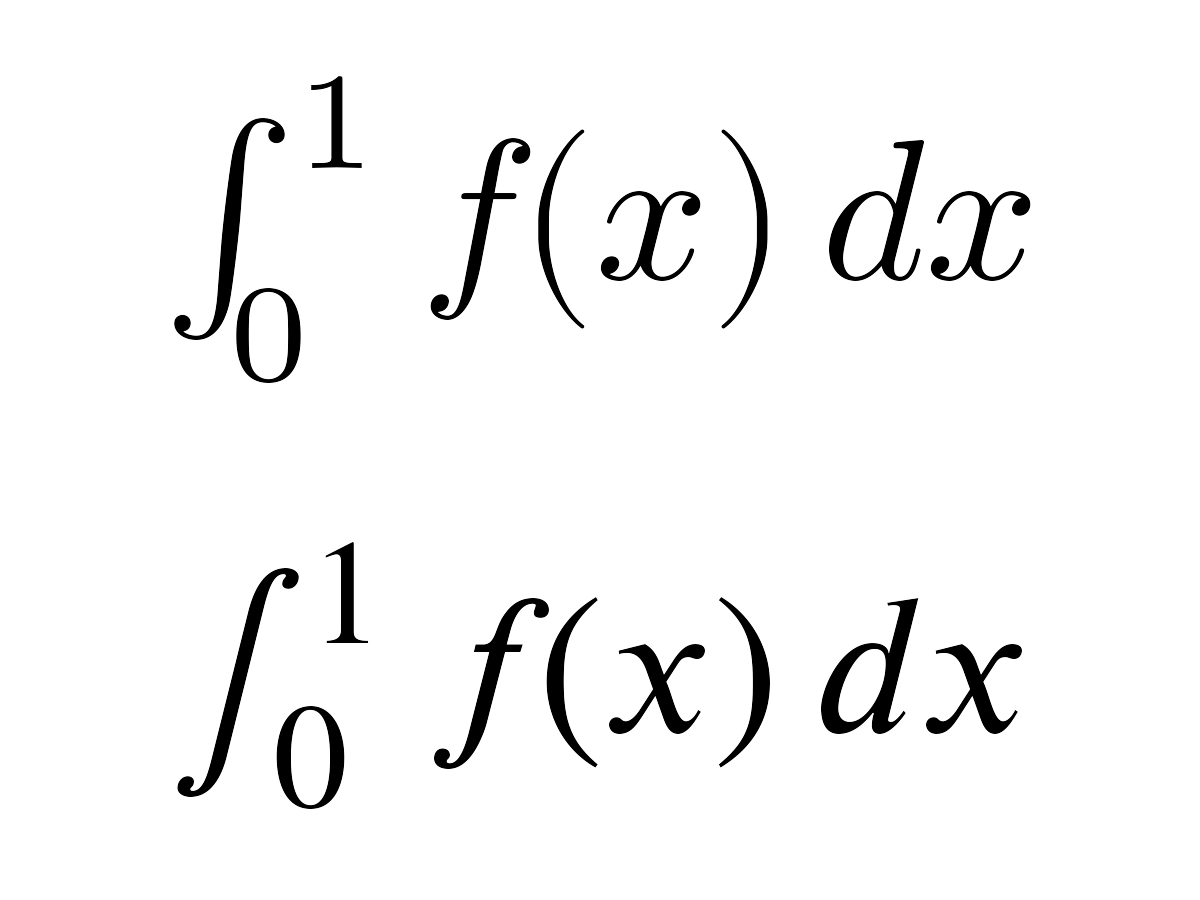
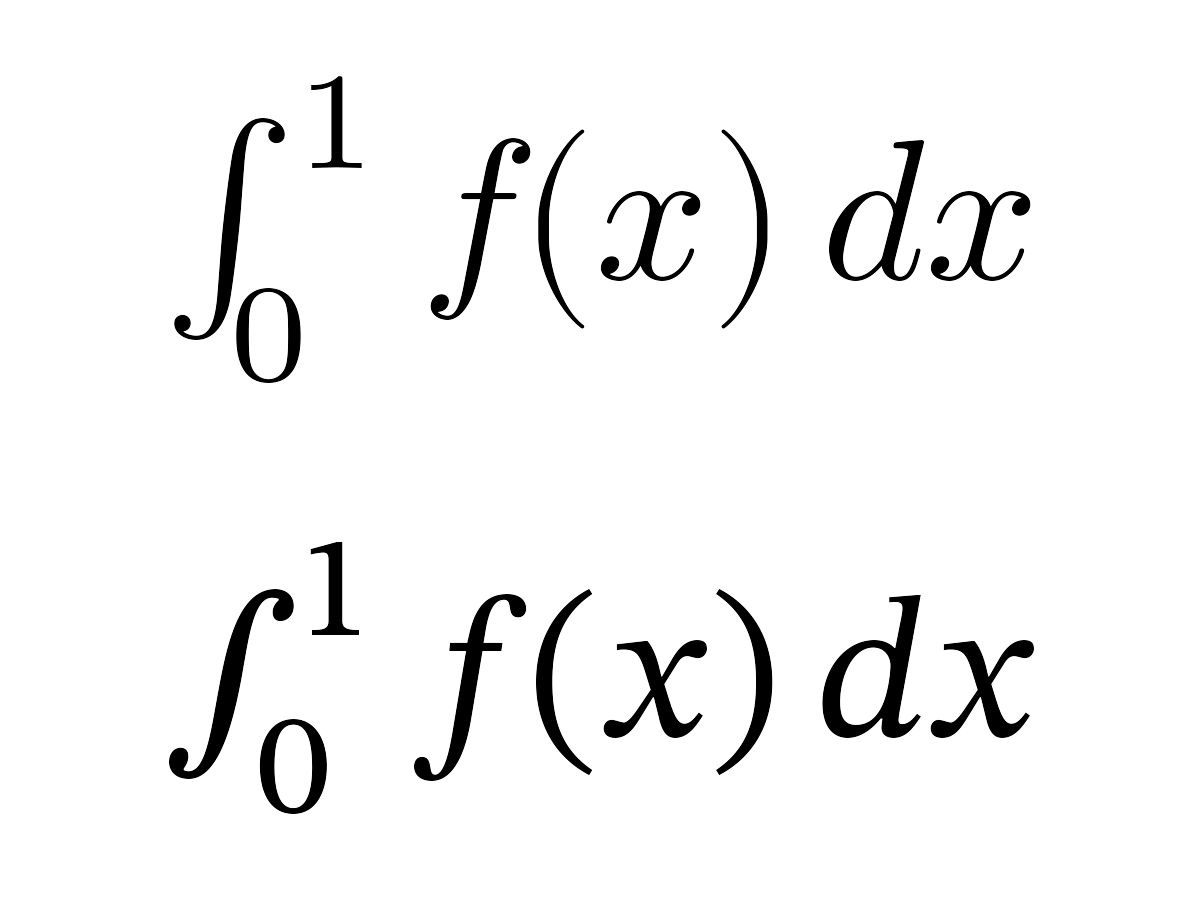
Deploying to gh-pages from @ adayim/gridmicrotex@da1313f140cc50e6bd0d665e5583a6d50dee9c65 🚀

diff --git a/articles/introduction.html b/articles/introduction.html
@@ -78,8 +78,8 @@ embedded</li>
 SVG, …)</li>
 <li>Full math support: fractions, roots, integrals, matrices, Greek
 letters, accents, delimiters, and more</li>
-<li>Multiple math fonts (Latin Modern Math, XITS Math, Garamond Math,
-TeX Gyre DejaVu Math)</li>
+<li>Multiple math fonts (Latin Modern Math, STIX Two Math, Lete Sans
+Math, TeX Gyre DejaVu Math)</li>
 <li>Color support via <code>\textcolor{}</code>
 </li>
 <li>ggplot2 integration with <code><a href="../reference/geom_latex.html">geom_latex()</a></code> and
@@ -131,8 +131,9 @@ grob:</p>
 <div class="section level2">
 <h2 id="math-fonts">Math fonts<a class="anchor" aria-label="anchor" href="#math-fonts"></a>
 </h2>
-<p>The package bundles Latin Modern Math (default), XITS Math, and TeX
-Gyre DejaVu Math. For most users, the easiest workflow is:</p>
+<p>The package bundles Latin Modern Math (default), STIX Two Math, Lete
+Sans Math, and TeX Gyre DejaVu Math. For most users, the easiest
+workflow is:</p>
 <ol style="list-style-type: decimal">
 <li>List available math fonts with
 <code><a href="../reference/available_math_fonts.html">available_math_fonts()</a></code>
@@ -143,10 +144,10 @@ Gyre DejaVu Math. For most users, the easiest workflow is:</p>
 </ol>
 <div class="sourceCode" id="cb5"><pre class="downlit sourceCode r">
 <code class="sourceCode R"><span><span class="fu"><a href="../reference/available_math_fonts.html">available_math_fonts</a></span><span class="op">(</span><span class="op">)</span></span>
-<span><span class="co">#&gt; [1] "Garamond-Math"             "LatinModernMath-Regular"  </span></span>
-<span><span class="co">#&gt; [3] "TeXGyreDejaVuMath-Regular" "XITS Math"</span></span></code></pre></div>
+<span><span class="co">#&gt; [1] "LatinModernMath-Regular"   "Lete Sans Math"           </span></span>
+<span><span class="co">#&gt; [3] "STIX Two Math"             "TeXGyreDejaVuMath-Regular"</span></span></code></pre></div>
 <div class="sourceCode" id="cb6"><pre class="downlit sourceCode r">
-<code class="sourceCode R"><span><span class="fu"><a href="../reference/set_math_font.html">set_math_font</a></span><span class="op">(</span><span class="st">"xits"</span><span class="op">)</span></span>
+<code class="sourceCode R"><span><span class="fu"><a href="../reference/set_math_font.html">set_math_font</a></span><span class="op">(</span><span class="st">"stix"</span><span class="op">)</span></span>
 <span><span class="fu">grid</span><span class="fu">::</span><span class="fu"><a href="https://rdrr.io/r/grid/grid.newpage.html" class="external-link">grid.newpage</a></span><span class="op">(</span><span class="op">)</span></span>
 <span><span class="fu"><a href="../reference/latex_grob.html">grid.latex</a></span><span class="op">(</span><span class="st">"\\int_0^1 f(x)\\,dx"</span>, fontsize <span class="op">=</span> <span class="fl">24</span><span class="op">)</span></span></code></pre></div>
 <p><img src="introduction_files/figure-html/fonts-default-1.png" class="r-plt" alt="" width="50%"></p>
@@ -163,7 +164,7 @@ Gyre DejaVu Math. For most users, the easiest workflow is:</p>
 <span><span class="fu"><a href="../reference/latex_grob.html">grid.latex</a></span><span class="op">(</span><span class="st">"\\int_0^1 f(x)\\,dx"</span>, fontsize <span class="op">=</span> <span class="fl">24</span><span class="op">)</span></span>
 <span><span class="fu">grid</span><span class="fu">::</span><span class="fu"><a href="https://rdrr.io/r/grid/viewports.html" class="external-link">upViewport</a></span><span class="op">(</span><span class="op">)</span></span>
 <span><span class="fu">grid</span><span class="fu">::</span><span class="fu"><a href="https://rdrr.io/r/grid/viewports.html" class="external-link">pushViewport</a></span><span class="op">(</span><span class="fu">grid</span><span class="fu">::</span><span class="fu"><a href="https://rdrr.io/r/grid/viewport.html" class="external-link">viewport</a></span><span class="op">(</span>layout.pos.row <span class="op">=</span> <span class="fl">2</span><span class="op">)</span><span class="op">)</span></span>
-<span><span class="fu"><a href="../reference/latex_grob.html">grid.latex</a></span><span class="op">(</span><span class="st">"\\int_0^1 f(x)\\,dx"</span>, fontsize <span class="op">=</span> <span class="fl">24</span>, math_font <span class="op">=</span> <span class="st">"xits"</span><span class="op">)</span></span>
+<span><span class="fu"><a href="../reference/latex_grob.html">grid.latex</a></span><span class="op">(</span><span class="st">"\\int_0^1 f(x)\\,dx"</span>, fontsize <span class="op">=</span> <span class="fl">24</span>, math_font <span class="op">=</span> <span class="st">"stix"</span><span class="op">)</span></span>
 <span><span class="fu">grid</span><span class="fu">::</span><span class="fu"><a href="https://rdrr.io/r/grid/viewports.html" class="external-link">upViewport</a></span><span class="op">(</span><span class="fl">2</span><span class="op">)</span></span></code></pre></div>
 <p><img src="introduction_files/figure-html/fonts-1.png" class="r-plt" alt="" width="50%"></p>
 <p>Use <code><a href="../reference/available_math_fonts.html">available_math_fonts()</a></code> to list loaded fonts and
@@ -274,14 +275,14 @@ pair them with a matching <code>fontfamily</code>:</p>
 <td><code>"serif"</code></td>
 </tr>
 <tr class="even">
-<td>XITS Math (<code>"xits"</code>)</td>
+<td>STIX Two Math (<code>"stix"</code>)</td>
 <td>Serif</td>
 <td><code>"serif"</code></td>
 </tr>
 <tr class="odd">
-<td>Garamond Math (<code>"garamond"</code>)</td>
-<td>Serif</td>
-<td><code>"serif"</code></td>
+<td>Lete Sans Math (<code>"lete"</code>)</td>
+<td>Sans-serif</td>
+<td><code>"sans"</code></td>
 </tr>
 <tr class="even">
 <td>TeX Gyre DejaVu Math (<code>"dejavu"</code>)</td>

diff --git a/reference/load_font.html b/reference/load_font.html
@@ -57,8 +57,10 @@ can then be used as a math font via the <code>math_font</code> parameter of
 
 
 <dt id="arg-clm-path">clm_path<a class="anchor" aria-label="anchor" href="#arg-clm-path"></a></dt>
-<dd><p>Optional legacy metrics path. Usually leave as
-<code>NULL</code>.</p></dd>
+<dd><p>Optional path to the companion <code>.clm2</code> (or
+legacy <code>.clm1</code>) metrics file. If <code>NULL</code> (the default),
+<code>load_font()</code> searches for a file with the same stem as
+<code>otf_path</code>.</p></dd>
 
 </dl></div>
     <div class="section level2">
@@ -67,8 +69,10 @@ can then be used as a math font via the <code>math_font</code> parameter of
     </div>
     <div class="section level2">
     <h2 id="details">Details<a class="anchor" aria-label="anchor" href="#details"></a></h2>
-    <p>For standard usage, supply only <code>otf_path</code>. The package handles
-the remaining font loading details internally.</p>
+    <p>For standard usage, supply only <code>otf_path</code>. If a matching
+<code>.clm2</code> file is present next to the OTF, it is used automatically.
+Otherwise you must generate one first (see <em>Generating a CLM
+metrics file</em> below).</p>
     </div>
     <div class="section level2">
     <h2 id="text-fonts">Text fonts<a class="anchor" aria-label="anchor" href="#text-fonts"></a></h2>
@@ -81,6 +85,33 @@ no font loading required. This function is only needed for adding
 custom <strong>math</strong> fonts.</p>
     </div>
     <div class="section level2">
+    <h2 id="generating-a-clm-metrics-file">Generating a CLM metrics file<a class="anchor" aria-label="anchor" href="#generating-a-clm-metrics-file"></a></h2>
+
+
+<p>MicroTeX reads glyph metrics, the OpenType MATH table, and glyph
+outlines from a binary companion file (<code>.clm2</code>) rather than from
+the OTF directly. A converter script is bundled with the package at
+<code>system.file("otf2clm.py", package = "gridmicrotex")</code>. It requires
+FontForge's embedded Python (<code>ffpython</code>), since the standard
+Python does not ship the <code>fontforge</code> module.</p>
+<p>Typical usage from a shell, for a single font:</p><div class="sourceCode"><pre><code>
+ffpython otf2clm.py --single path/to/font.otf true out_dir
+</code></pre></div>
+
+<p>Or to convert every OTF in a directory:</p><div class="sourceCode"><pre><code>
+ffpython otf2clm.py --batch in_dir true out_dir
+</code></pre></div>
+
+<p>The <code>true</code> argument tells the converter to embed glyph outlines
+(required for <code>render_mode = "path"</code>); pass <code>false</code> to
+generate a smaller <code>.clm1</code> file suitable only for
+<code>render_mode = "typeface"</code>. Run the script with no arguments to
+see the full usage including font-style flags.</p>
+<p>Place the generated <code>.clm2</code> file next to the OTF (same stem) so
+that <code>load_font()</code> finds it automatically, or pass it explicitly
+via <code>clm_path</code>.</p>
+    </div>
+    <div class="section level2">
     <h2 id="see-also">See also<a class="anchor" aria-label="anchor" href="#see-also"></a></h2>
     <div class="dont-index"><p><code><a href="available_math_fonts.html">available_math_fonts</a></code>, <code><a href="set_math_font.html">set_math_font</a></code>,
 <code><a href="latex_grob.html">latex_grob</a></code></p></div>
@@ -89,8 +120,11 @@ custom <strong>math</strong> fonts.</p>
     <div class="section level2">
     <h2 id="ref-examples">Examples<a class="anchor" aria-label="anchor" href="#ref-examples"></a></h2>
     <div class="sourceCode"><pre class="sourceCode r"><code><span class="r-in"><span><span class="co"># \donttest{</span></span></span>
-<span class="r-in"><span>  <span class="co"># Load a custom math font from OTF:</span></span></span>
+<span class="r-in"><span>  <span class="co"># Load a custom math font from OTF (with a sibling .clm2 file):</span></span></span>
 <span class="r-in"><span>  <span class="co"># load_font("path/to/font.otf")</span></span></span>
+<span class="r-in"><span></span></span>
+<span class="r-in"><span>  <span class="co"># Locate the bundled CLM converter:</span></span></span>
+<span class="r-in"><span>  <span class="co"># system.file("otf2clm.py", package = "gridmicrotex")</span></span></span>
 <span class="r-in"><span><span class="co"># }</span></span></span>
 </code></pre></div>
     </div>

diff --git a/reference/resolve_math_font.html b/reference/resolve_math_font.html
@@ -1,6 +1,6 @@
 <!DOCTYPE html>
-<!-- Generated by pkgdown: do not edit by hand --><html lang="en"><head><meta http-equiv="Content-Type" content="text/html; charset=UTF-8"><meta charset="utf-8"><meta http-equiv="X-UA-Compatible" content="IE=edge"><meta name="viewport" content="width=device-width, initial-scale=1, shrink-to-fit=no"><title>Resolve a math font name — resolve_math_font • gridmicrotex</title><script src="../deps/jquery-3.6.0/jquery-3.6.0.min.js"></script><meta name="viewport" content="width=device-width, initial-scale=1, shrink-to-fit=no"><link href="../deps/bootstrap-5.3.1/bootstrap.min.css" rel="stylesheet"><script src="../deps/bootstrap-5.3.1/bootstrap.bundle.min.js"></script><link href="../deps/font-awesome-6.5.2/css/all.min.css" rel="stylesheet"><link href="../deps/font-awesome-6.5.2/css/v4-shims.min.css" rel="stylesheet"><script src="../deps/headroom-0.11.0/headroom.min.js"></script><script src="../deps/headroom-0.11.0/jQuery.headroom.min.js"></script><script src="../deps/bootstrap-toc-1.0.1/bootstrap-toc.min.js"></script><script src="../deps/clipboard.js-2.0.11/clipboard.min.js"></script><script src="../deps/search-1.0.0/autocomplete.jquery.min.js"></script><script src="../deps/search-1.0.0/fuse.min.js"></script><script src="../deps/search-1.0.0/mark.min.js"></script><!-- pkgdown --><script src="../pkgdown.js"></script><meta property="og:title" content="Resolve a math font name — resolve_math_font"><meta name="description" content='Translates short aliases (e.g., "xits", "lm") to the
-full MicroTeX font name. Validates that the font is loaded.'><meta property="og:description" content='Translates short aliases (e.g., "xits", "lm") to the
+<!-- Generated by pkgdown: do not edit by hand --><html lang="en"><head><meta http-equiv="Content-Type" content="text/html; charset=UTF-8"><meta charset="utf-8"><meta http-equiv="X-UA-Compatible" content="IE=edge"><meta name="viewport" content="width=device-width, initial-scale=1, shrink-to-fit=no"><title>Resolve a math font name — resolve_math_font • gridmicrotex</title><script src="../deps/jquery-3.6.0/jquery-3.6.0.min.js"></script><meta name="viewport" content="width=device-width, initial-scale=1, shrink-to-fit=no"><link href="../deps/bootstrap-5.3.1/bootstrap.min.css" rel="stylesheet"><script src="../deps/bootstrap-5.3.1/bootstrap.bundle.min.js"></script><link href="../deps/font-awesome-6.5.2/css/all.min.css" rel="stylesheet"><link href="../deps/font-awesome-6.5.2/css/v4-shims.min.css" rel="stylesheet"><script src="../deps/headroom-0.11.0/headroom.min.js"></script><script src="../deps/headroom-0.11.0/jQuery.headroom.min.js"></script><script src="../deps/bootstrap-toc-1.0.1/bootstrap-toc.min.js"></script><script src="../deps/clipboard.js-2.0.11/clipboard.min.js"></script><script src="../deps/search-1.0.0/autocomplete.jquery.min.js"></script><script src="../deps/search-1.0.0/fuse.min.js"></script><script src="../deps/search-1.0.0/mark.min.js"></script><!-- pkgdown --><script src="../pkgdown.js"></script><meta property="og:title" content="Resolve a math font name — resolve_math_font"><meta name="description" content='Translates short aliases (e.g., "stix", "lm") to the
+full MicroTeX font name. Validates that the font is loaded.'><meta property="og:description" content='Translates short aliases (e.g., "stix", "lm") to the
 full MicroTeX font name. Validates that the font is loaded.'></head><body>
     <a href="#main" class="visually-hidden-focusable">Skip to contents</a>
 
@@ -36,7 +36,7 @@ full MicroTeX font name. Validates that the font is loaded.'></head><body>
     </div>
 
     <div class="ref-description section level2">
-    <p>Translates short aliases (e.g., <code>"xits"</code>, <code>"lm"</code>) to the
+    <p>Translates short aliases (e.g., <code>"stix"</code>, <code>"lm"</code>) to the
 full MicroTeX font name. Validates that the font is loaded.</p>
     </div>
 

diff --git a/reference/available_math_fonts.html b/reference/available_math_fonts.html
@@ -58,13 +58,13 @@ These names can be passed to the <code>math_font</code> parameter of
 
 <p>The bundled math fonts have different styles. For a consistent look,
 pair them with a matching <code>fontfamily</code> in <code>gp</code>:</p>
-<table class="table table"><tr><td><strong>Math font</strong></td><td><strong>Style</strong></td><td><strong>Suggested text font</strong></td></tr><tr><td>Latin Modern Math (<code>"lm"</code>)</td><td>Serif</td><td><code>"serif"</code></td></tr><tr><td>XITS Math (<code>"xits"</code>)</td><td>Serif</td><td><code>"serif"</code></td></tr><tr><td>Garamond Math (<code>"garamond"</code>)</td><td>Serif</td><td><code>"serif"</code></td></tr><tr><td>TeX Gyre DejaVu Math (<code>"dejavu"</code>)</td><td>Sans-serif</td><td><code>"sans"</code></td></tr></table></div>
+<table class="table table"><tr><td><strong>Math font</strong></td><td><strong>Style</strong></td><td><strong>Suggested text font</strong></td></tr><tr><td>Latin Modern Math (<code>"lm"</code>)</td><td>Serif</td><td><code>"serif"</code></td></tr><tr><td>STIX Two Math (<code>"stix"</code>)</td><td>Serif</td><td><code>"serif"</code></td></tr><tr><td>Lete Sans Math (<code>"lete"</code>)</td><td>Sans-serif</td><td><code>"sans"</code></td></tr><tr><td>TeX Gyre DejaVu Math (<code>"dejavu"</code>)</td><td>Sans-serif</td><td><code>"sans"</code></td></tr></table></div>
 
     <div class="section level2">
     <h2 id="ref-examples">Examples<a class="anchor" aria-label="anchor" href="#ref-examples"></a></h2>
     <div class="sourceCode"><pre class="sourceCode r"><code><span class="r-in"><span><span class="fu">available_math_fonts</span><span class="op">(</span><span class="op">)</span></span></span>
-<span class="r-out co"><span class="r-pr">#&gt;</span> [1] "Garamond-Math"             "LatinModernMath-Regular"  </span>
-<span class="r-out co"><span class="r-pr">#&gt;</span> [3] "TeXGyreDejaVuMath-Regular" "XITS Math"                </span>
+<span class="r-out co"><span class="r-pr">#&gt;</span> [1] "LatinModernMath-Regular"   "Lete Sans Math"           </span>
+<span class="r-out co"><span class="r-pr">#&gt;</span> [3] "STIX Two Math"             "TeXGyreDejaVuMath-Regular"</span>
 </code></pre></div>
     </div>
   </main><aside class="col-md-3"><nav id="toc" aria-label="Table of contents"><h2>On this page</h2>

diff --git a/reference/check_fonts.html b/reference/check_fonts.html
@@ -58,14 +58,14 @@ font files are present.</p>
     <div class="sourceCode"><pre class="sourceCode r"><code><span class="r-in"><span><span class="fu">check_fonts</span><span class="op">(</span><span class="op">)</span></span></span>
 <span class="r-msg co"><span class="r-pr">#&gt;</span> MicroTeX version: 1.0.0</span>
 <span class="r-msg co"><span class="r-pr">#&gt;</span> Loaded math fonts (4):</span>
-<span class="r-msg co"><span class="r-pr">#&gt;</span>   - Garamond-Math</span>
 <span class="r-msg co"><span class="r-pr">#&gt;</span>   - LatinModernMath-Regular</span>
+<span class="r-msg co"><span class="r-pr">#&gt;</span>   - Lete Sans Math</span>
+<span class="r-msg co"><span class="r-pr">#&gt;</span>   - STIX Two Math</span>
 <span class="r-msg co"><span class="r-pr">#&gt;</span>   - TeXGyreDejaVuMath-Regular</span>
-<span class="r-msg co"><span class="r-pr">#&gt;</span>   - XITS Math</span>
 <span class="r-msg co"><span class="r-pr">#&gt;</span> Bundled font files:</span>
 <span class="r-msg co"><span class="r-pr">#&gt;</span>   - Latin Modern Math: found</span>
-<span class="r-msg co"><span class="r-pr">#&gt;</span>   - XITS Math: found</span>
-<span class="r-msg co"><span class="r-pr">#&gt;</span>   - Garamond Math: found</span>
+<span class="r-msg co"><span class="r-pr">#&gt;</span>   - STIX Two Math: found</span>
+<span class="r-msg co"><span class="r-pr">#&gt;</span>   - Lete Sans Math: found</span>
 <span class="r-msg co"><span class="r-pr">#&gt;</span>   - TeX Gyre DejaVu Math: found</span>
 </code></pre></div>
     </div>

diff --git a/reference/set_math_font.html b/reference/set_math_font.html
@@ -53,7 +53,7 @@ fonts returned by <code><a href="available_math_fonts.html">available_math_fonts
 
 
 <dl><dt id="arg-name">name<a class="anchor" aria-label="anchor" href="#arg-name"></a></dt>
-<dd><p>Math font name or alias (e.g., <code>"lm"</code>, <code>"xits"</code>).</p></dd>
+<dd><p>Math font name or alias (e.g., <code>"lm"</code>, <code>"stix"</code>).</p></dd>
 
 </dl></div>
     <div class="section level2">
@@ -75,8 +75,8 @@ that is not already loaded.</p>
     <div class="section level2">
     <h2 id="ref-examples">Examples<a class="anchor" aria-label="anchor" href="#ref-examples"></a></h2>
     <div class="sourceCode"><pre class="sourceCode r"><code><span class="r-in"><span><span class="co"># \donttest{</span></span></span>
-<span class="r-in"><span>  <span class="co"># Switch default math font to XITS Math (if loaded)</span></span></span>
-<span class="r-in"><span>  <span class="fu">set_math_font</span><span class="op">(</span><span class="st">"xits"</span><span class="op">)</span></span></span>
+<span class="r-in"><span>  <span class="co"># Switch default math font to STIX Two Math (if loaded)</span></span></span>
+<span class="r-in"><span>  <span class="fu">set_math_font</span><span class="op">(</span><span class="st">"stix"</span><span class="op">)</span></span></span>
 <span class="r-in"><span><span class="co"># }</span></span></span>
 </code></pre></div>
     </div>

diff --git a/index.html b/index.html
@@ -161,11 +161,11 @@
 </h2>
 <ul>
 <li>Full LaTeX math: fractions, roots, integrals, matrices, Greek, accents, extensible delimiters</li>
-<li>Four bundled math fonts: Latin Modern Math, XITS Math, Garamond Math, TeX Gyre DejaVu Math
+<li>Four bundled math fonts: Latin Modern Math, STIX Two Math, Lete Sans Math, TeX Gyre DejaVu Math
 <ul>
-<li>Latin Modern, XITS &amp; Garamond are serif — pair with <code>gpar(fontfamily = "serif")</code>
+<li>Latin Modern &amp; STIX Two are serif — pair with <code>gpar(fontfamily = "serif")</code>
 </li>
-<li>TeX Gyre DejaVu is sans-serif — pair with <code>gpar(fontfamily = "sans")</code>
+<li>Lete Sans &amp; TeX Gyre DejaVu are sans-serif — pair with <code>gpar(fontfamily = "sans")</code>
 </li>
 </ul>
 </li>

diff --git a/reference/latex_grob.html b/reference/latex_grob.html
@@ -107,7 +107,7 @@ Matches the <code>rot</code> parameter of <code><a href="https://rdrr.io/r/grid/
 
 
 <dt id="arg-math-font">math_font<a class="anchor" aria-label="anchor" href="#arg-math-font"></a></dt>
-<dd><p>Name of the math font to use (e.g., <code>"xits"</code>).
+<dd><p>Name of the math font to use (e.g., <code>"stix"</code>).
 Use <code>""</code> (default) for the default Latin Modern Math font.
 See <code><a href="available_math_fonts.html">available_math_fonts</a></code> for loaded fonts.</p></dd>
 

diff --git a/reference/element_latex.html b/reference/element_latex.html
@@ -60,7 +60,7 @@ as LaTeX math and rendered via MicroTeX.</p>
 
 
 <dl><dt id="arg-math-font">math_font<a class="anchor" aria-label="anchor" href="#arg-math-font"></a></dt>
-<dd><p>Name of the math font to use (e.g., <code>"xits"</code>).
+<dd><p>Name of the math font to use (e.g., <code>"stix"</code>).
 Use <code>""</code> (default) for the default Latin Modern Math font.
 See <code><a href="available_math_fonts.html">available_math_fonts</a></code> for loaded fonts.</p></dd>
 

diff --git a/reference/latex_dims.html b/reference/latex_dims.html
@@ -62,7 +62,7 @@
 
 
 <dt id="arg-math-font">math_font<a class="anchor" aria-label="anchor" href="#arg-math-font"></a></dt>
-<dd><p>Name of the math font to use (e.g., <code>"xits"</code>).
+<dd><p>Name of the math font to use (e.g., <code>"stix"</code>).
 Use <code>""</code> (default) for the default Latin Modern Math font.
 See <code><a href="available_math_fonts.html">available_math_fonts</a></code> for loaded fonts.</p></dd>
 

diff --git a/reference/geom_latex.html b/reference/geom_latex.html
@@ -123,7 +123,7 @@ aesthetic if mapped.</p></dd>
 
 
 <dt id="arg-math-font">math_font<a class="anchor" aria-label="anchor" href="#arg-math-font"></a></dt>
-<dd><p>Name of the math font to use (e.g., <code>"xits"</code>).</p></dd>
+<dd><p>Name of the math font to use (e.g., <code>"stix"</code>).</p></dd>
 
 
 <dt id="arg-line-space">line_space<a class="anchor" aria-label="anchor" href="#arg-line-space"></a></dt>

diff --git a/articles/introduction.md b/articles/introduction.md
@@ -18,8 +18,8 @@ graphics device at any resolution.
   …)
 - Full math support: fractions, roots, integrals, matrices, Greek
   letters, accents, delimiters, and more
-- Multiple math fonts (Latin Modern Math, XITS Math, Garamond Math, TeX
-  Gyre DejaVu Math)
+- Multiple math fonts (Latin Modern Math, STIX Two Math, Lete Sans Math,
+  TeX Gyre DejaVu Math)
 - Color support via `\textcolor{}`
 - ggplot2 integration with
   [`geom_latex()`](https://adayim.github.io/gridmicrotex/reference/geom_latex.md)
@@ -79,8 +79,9 @@ grid.latex(
 
 ## Math fonts
 
-The package bundles Latin Modern Math (default), XITS Math, and TeX Gyre
-DejaVu Math. For most users, the easiest workflow is:
+The package bundles Latin Modern Math (default), STIX Two Math, Lete
+Sans Math, and TeX Gyre DejaVu Math. For most users, the easiest
+workflow is:
 
 1.  List available math fonts with
     [`available_math_fonts()`](https://adayim.github.io/gridmicrotex/reference/available_math_fonts.md)
@@ -90,12 +91,12 @@ DejaVu Math. For most users, the easiest workflow is:
 
 ``` r
 available_math_fonts()
-#> [1] "Garamond-Math"             "LatinModernMath-Regular"  
-#> [3] "TeXGyreDejaVuMath-Regular" "XITS Math"
+#> [1] "LatinModernMath-Regular"   "Lete Sans Math"           
+#> [3] "STIX Two Math"             "TeXGyreDejaVuMath-Regular"
 ```
 
 ``` r
-set_math_font("xits")
+set_math_font("stix")
 grid::grid.newpage()
 grid.latex("\\int_0^1 f(x)\\,dx", fontsize = 24)
 ```
@@ -117,7 +118,7 @@ grid::pushViewport(grid::viewport(layout.pos.row = 1))
 grid.latex("\\int_0^1 f(x)\\,dx", fontsize = 24)
 grid::upViewport()
 grid::pushViewport(grid::viewport(layout.pos.row = 2))
-grid.latex("\\int_0^1 f(x)\\,dx", fontsize = 24, math_font = "xits")
+grid.latex("\\int_0^1 f(x)\\,dx", fontsize = 24, math_font = "stix")
 grid::upViewport(2)
 ```
 
@@ -236,8 +237,8 @@ pair them with a matching `fontfamily`:
 | Math font                         | Style      | Suggested `fontfamily` |
 |-----------------------------------|------------|------------------------|
 | Latin Modern Math (`"lm"`)        | Serif      | `"serif"`              |
-| XITS Math (`"xits"`)              | Serif      | `"serif"`              |
-| Garamond Math (`"garamond"`)      | Serif      | `"serif"`              |
+| STIX Two Math (`"stix"`)          | Serif      | `"serif"`              |
+| Lete Sans Math (`"lete"`)         | Sans-serif | `"sans"`               |
 | TeX Gyre DejaVu Math (`"dejavu"`) | Sans-serif | `"sans"`               |
 
 ``` r
